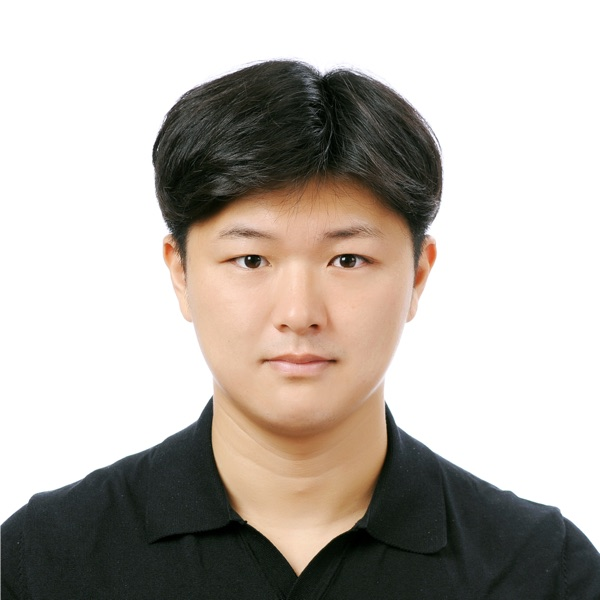
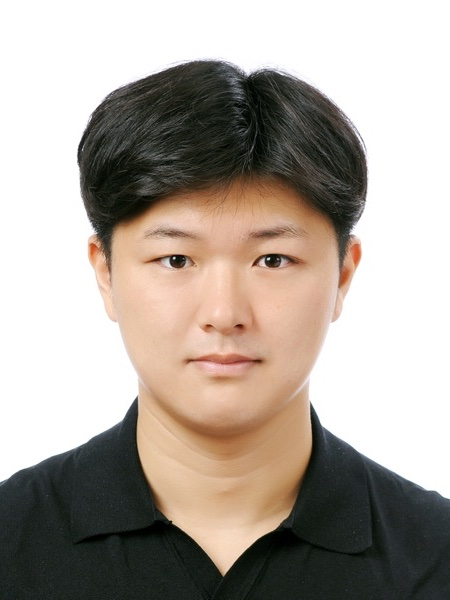
update

diff --git a/assets/css/custom-styles.css b/assets/css/custom-styles.css
@@ -364,28 +364,39 @@ footer .footer-links a {
 
 /* --- Profile ------------------------------------------------------------ */
 
+/* The photo floats so the bio wraps beside it and then reflows to the full
+   measure underneath. A flex row would instead pin the whole bio into a
+   narrow column and leave dead space below the photo. */
 .profile {
-  display: flex;
-  align-items: flex-start;
-  gap: 1.75rem;
+  display: block;
   margin-bottom: 1rem;
 }
 
+.profile::after {
+  content: "";
+  display: table;
+  clear: both;
+}
+
 .profile-photo {
-  flex: 0 0 auto;
-  width: 10.5rem;
+  float: left;
+  margin: 0.4rem 1.5rem 0.75rem 0;
+  /* 144 x 192 — a 3:4 ID photo at roughly its printed 3cm x 4cm scale.
+     The source file is cropped to the same ratio, so nothing is cut here. */
+  width: 9rem;
   /* `height: auto` is required: the <img> carries width/height attributes for
      layout stability, and without it that height wins and aspect-ratio is
      ignored, rendering the photo 600px tall. */
   height: auto;
-  aspect-ratio: 1 / 1;
+  aspect-ratio: 3 / 4;
   object-fit: cover;
   border-radius: var(--radius);
   border: 1px solid var(--border);
 }
 
+/* No BFC here (no overflow/flex on .profile-body) — the text must be allowed
+   to wrap around the floated photo. */
 .profile-body {
-  flex: 1 1 auto;
   min-width: 0;
 }
 
@@ -409,20 +420,24 @@ footer .footer-links a {
   margin-bottom: 0.9rem;
 }
 
+/* A flex container will not overlap a float, so clear it: the buttons always
+   start on a clean full-width line rather than being squeezed beside the photo. */
 .profile-actions {
+  clear: both;
   display: flex;
   flex-wrap: wrap;
   gap: 0.5rem;
   margin-top: 1.25rem;
 }
 
+/* Below this width the wrapped column gets too narrow to read, so the photo
+   stops floating and the bio takes the full measure. */
 @media (max-width: 575px) {
-  .profile {
-    flex-direction: column;
-    gap: 1.25rem;
-  }
   .profile-photo {
-    width: 8.5rem;
+    float: none;
+    display: block;
+    width: 8rem;
+    margin: 0 0 1.25rem;
   }
 }
 

diff --git a/index.html b/index.html
@@ -5,7 +5,7 @@ layout: page
 <section class="profile">
   <img class="profile-photo"
        src="/assets/img/kh_photo.jpeg"
-       width="600" height="600"
+       width="450" height="600"
        alt="Kanghoon Yoon">
 
   <div class="profile-body">
